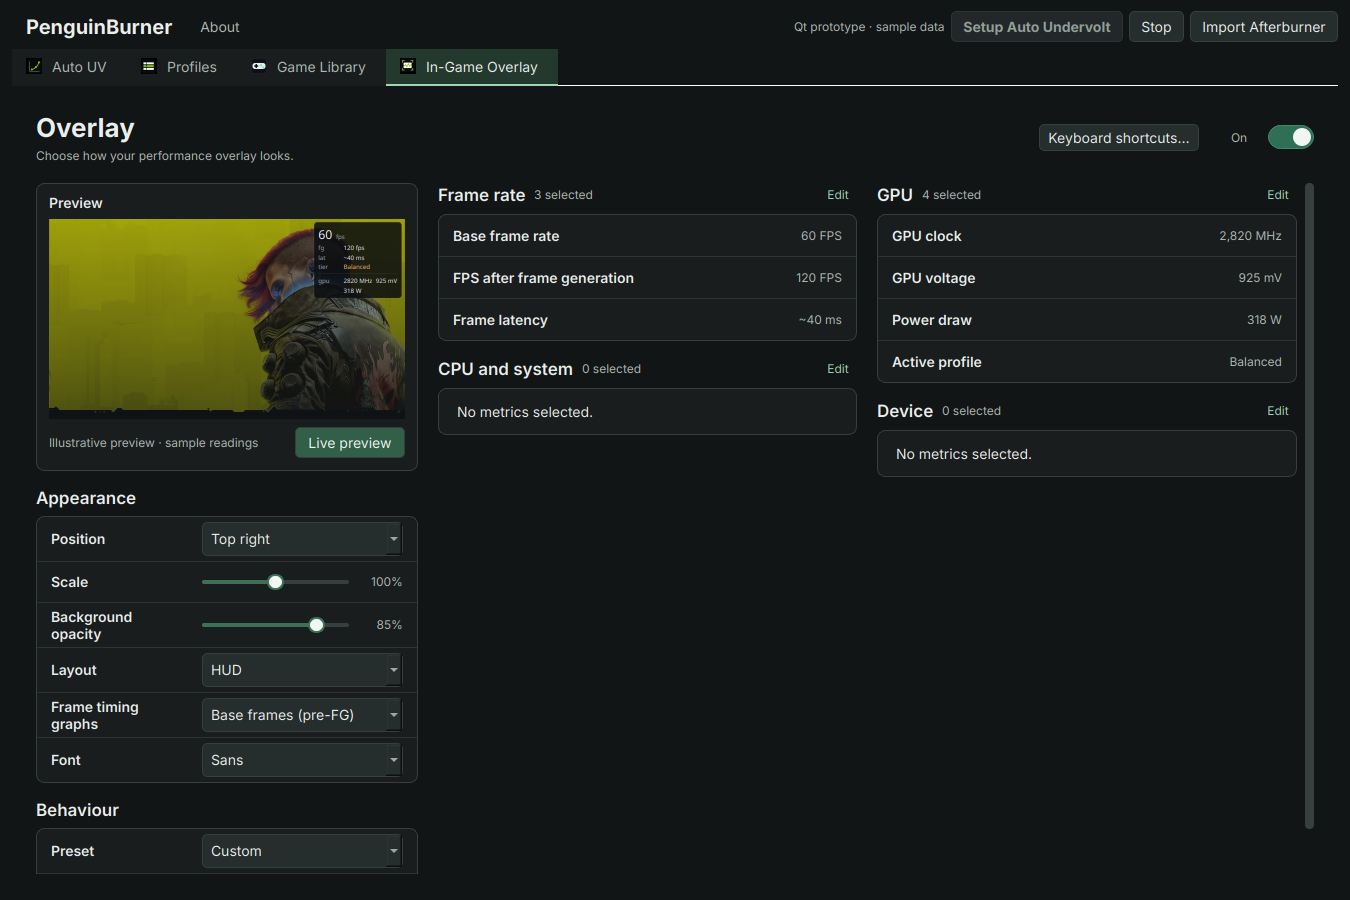
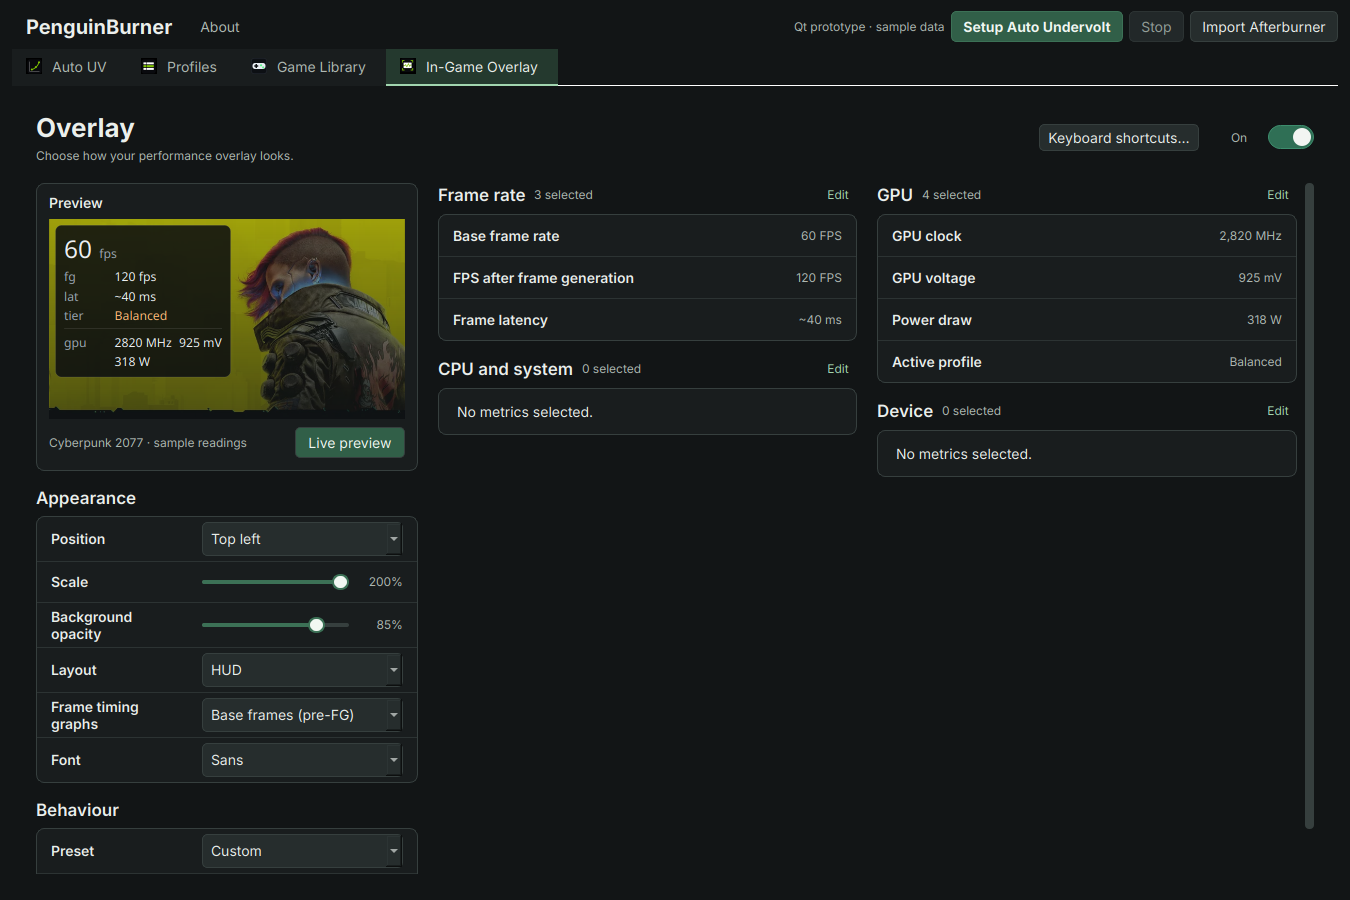
Make native overlay artwork easy to preview and verify

diff --git a/examples/ui-preview/tests/test_native_preview.py b/examples/ui-preview/tests/test_native_preview.py
@@ -343,3 +343,66 @@ def test_each_launcher_badge_is_visible_in_the_composited_row(app):
         )
     finally:
         window.close()
+
+
+def test_overlay_game_art_tracks_library_and_native_hud(app):
+    window = preview.Preview(overlay=True)
+    window.show()
+    try:
+        assert (
+            window.tabs.currentIndex() == 3
+            and window.stack.currentWidget() is window.overlay
+        )
+        overlay = window.overlay.panel
+        window.tabs.setCurrentIndex(2)
+        for index, game_id in enumerate(("1091500", "2531310", "1888930", "782330")):
+            window.library.select_game(index)
+            assert overlay.art_path == preview.HERE / "artwork" / f"{game_id}art.webp"
+            assert not overlay.preview.artwork.isNull()
+        window.tabs.setCurrentIndex(3)
+        overlay.live_button.click()
+        assert overlay.sample_dialog is not None
+        assert (
+            overlay.sample_canvas.artwork.cacheKey()
+            == overlay.preview.artwork.cacheKey()
+        )
+        assert "DOOM Eternal" in overlay.sample_dialog.windowTitle()
+        overlay.position_combo.setCurrentText("Bottom left")
+        overlay.scale_slider.setValue(overlay.scale_slider.maximum())
+        assert (
+            overlay.sample_canvas._config == overlay.preview._config == overlay.config
+        )
+        assert overlay.config.position == "bottom_left"
+        assert "preview" in overlay.preview.accessibleName()
+        enabled = overlay.sample_canvas.grab().toImage()
+        overlay.enabled_switch.click()
+        backdrop = overlay.sample_canvas.grab().toImage()
+        assert backdrop != enabled and not overlay.config.enabled
+        window.library.select_game(4)
+        assert overlay.art_path is None
+        assert (
+            overlay.sample_canvas.artwork.isNull() and overlay.preview.artwork.isNull()
+        )
+        scenery = overlay.sample_canvas.grab().toImage()
+        assert scenery != backdrop
+        # A 4:1 source must lose its outer red bands to fill a 16:9 game
+        # frame. Stretching the source would leave red pixels at both edges.
+        art = preview.G.QPixmap(400, 100)
+        art.fill(preview.G.QColor("red"))
+        brush = preview.G.QPainter(art)
+        brush.fillRect(100, 0, 200, 100, preview.G.QColor("lime"))
+        brush.end()
+        overlay.sample_canvas.set_artwork(art)
+        frame = preview.G.QImage(160, 90, preview.G.QImage.Format.Format_RGB32)
+        brush = preview.G.QPainter(frame)
+        brush.scale(160 / 2560, 90 / 1440)
+        overlay.sample_canvas._paint_scene(brush)
+        brush.end()
+        top = frame.pixelColor(2, 1)
+        bottom = frame.pixelColor(157, 88)
+        assert top.green() > top.red() and bottom.green() > bottom.red()
+        assert 0 < bottom.green() < top.green() < 255
+        overlay.live_button.click()
+        assert overlay.sample_dialog is None
+    finally:
+        window.close()

diff --git a/examples/ui-preview/native_library.py b/examples/ui-preview/native_library.py
@@ -575,6 +575,17 @@ class FixtureOverlay(overlay_ui.OverlayConfigPanel):
             candidate = Path(__file__).with_name("artwork") / f"{game.game_id}art.webp"
             if candidate.is_file():
                 path = candidate
+        name = (
+            game.name
+            if game is not None and path is not None
+            else "Illustrative preview"
+        )
+        caption = self.widget.findChild(W.QLabel, "overlayPreviewCaption")
+        if caption is not None:
+            caption.setText(f"{name} · sample readings")
+        self.preview.setAccessibleName(f"{name} · overlay preview")
+        if self.sample_dialog is not None:
+            self.sample_dialog.setWindowTitle(self.preview.accessibleName())
         if path == self.art_path:
             return
         self.art_path = path
@@ -616,7 +627,9 @@ class FixtureOverlay(overlay_ui.OverlayConfigPanel):
             self.sample_dialog.close()
             return
         dlg = W.QDialog(self.widget)
-        dlg.setWindowTitle("Live preview · sample readings")
+        dlg.setWindowTitle(
+            self.preview.accessibleName() or "Live preview · sample readings"
+        )
         layout = W.QVBoxLayout(dlg)
         self.sample_canvas = GameArtworkPreview()
         self.sample_canvas.set_artwork(self.preview.artwork)

diff --git a/examples/ui-preview/preview.py b/examples/ui-preview/preview.py
@@ -877,7 +877,7 @@ class PreviewPage(QWebEnginePage):
 
 
 class Preview(W.QWidget):
-    def __init__(self, *, history=False):
+    def __init__(self, *, history=False, overlay=False):
         super().__init__()
         self.setWindowTitle("PenguinBurner · Qt UX preview")
         self.setWindowIcon(G.QIcon(str(asset_image_path("penguin-burner.png"))))
@@ -941,6 +941,8 @@ class Preview(W.QWidget):
         self.scan.show_profiles.connect(lambda: self.tabs.setCurrentIndex(1))
         if history:
             self.tabs.setCurrentIndex(2)
+        elif overlay:
+            self.tabs.setCurrentIndex(3)
         self.browser.load(C.QUrl.fromLocalFile(str(build_preview())))
 
     def loaded(self, ok):
@@ -1191,7 +1193,7 @@ def configure_app(app):
 def main():
     app = W.QApplication(sys.argv)
     configure_app(app)
-    win = Preview(history="--history" in sys.argv)
+    win = Preview(history="--history" in sys.argv, overlay="--overlay" in sys.argv)
     win.show()
     return app.exec()
 

diff --git a/examples/ui-preview/capture_qt.py b/examples/ui-preview/capture_qt.py
@@ -81,9 +81,14 @@ def capture():
     scan.table.setCurrentCell(13, 0)
     QTest.qWait(100)
     assert window.grab().save(str(output / "auto-uv.png"))
+    while scan.stage == "verifying":
+        scan.tick()
     window.tabs.setCurrentIndex(2)
     window.library.select_game(0)
     window.tabs.setCurrentIndex(3)
+    overlay = window.overlay.panel
+    overlay.position_combo.setCurrentText("Top left")
+    overlay.scale_slider.setValue(overlay.scale_slider.maximum())
     QTest.qWait(100)
     assert window.grab().save(str(output / "overlay-qt.png"))
     window.close()

diff --git a/examples/ui-preview/README.md b/examples/ui-preview/README.md
@@ -39,7 +39,7 @@ python3 -m venv .venv-preview
 .venv-preview/bin/python examples/ui-preview/preview.py
 ```
 
-The native mock opens on Auto UV. It uses the checkout's Qt setup and final verification dialogs, V/F plot, curve editors, Afterburner chooser, Game Library and Overlay settings. Profiles and the recording detail use the embedded HTML view.
+The native mock opens on Auto UV. To jump straight to the Qt artwork preview, run `python3 examples/ui-preview/preview.py --overlay`. It uses the checkout's Qt setup and final verification dialogs, V/F plot, curve editors, Afterburner chooser, Game Library and Overlay settings. Profiles and the recording detail use the embedded HTML view.
 
 ## Try the workflows
 
